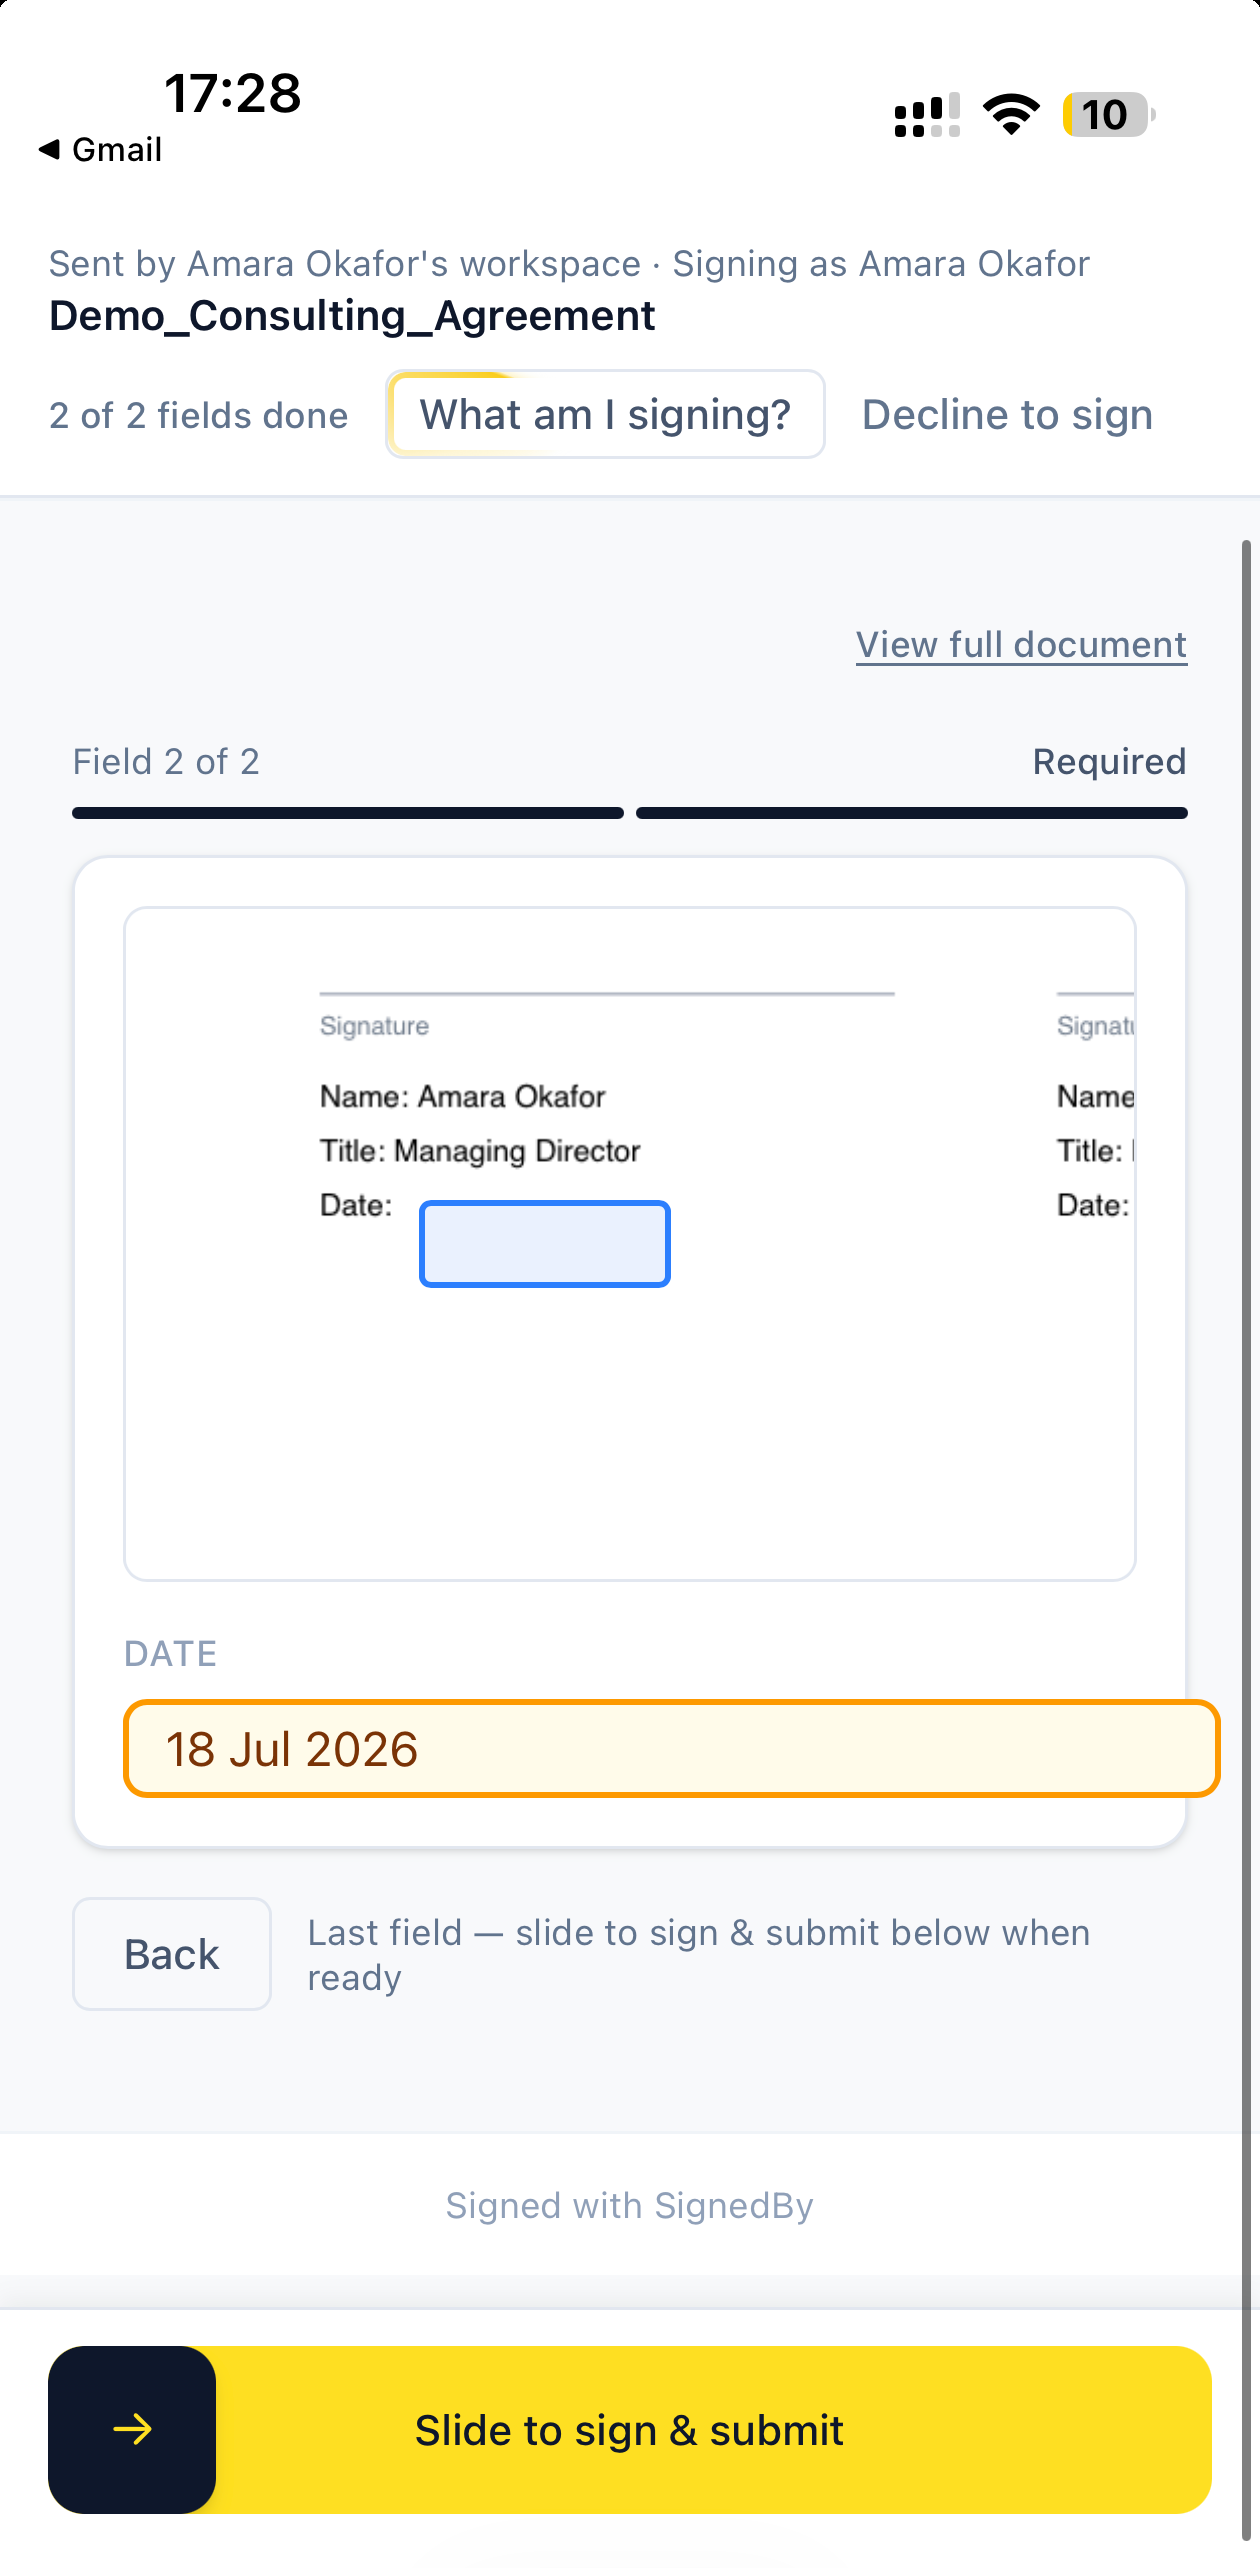
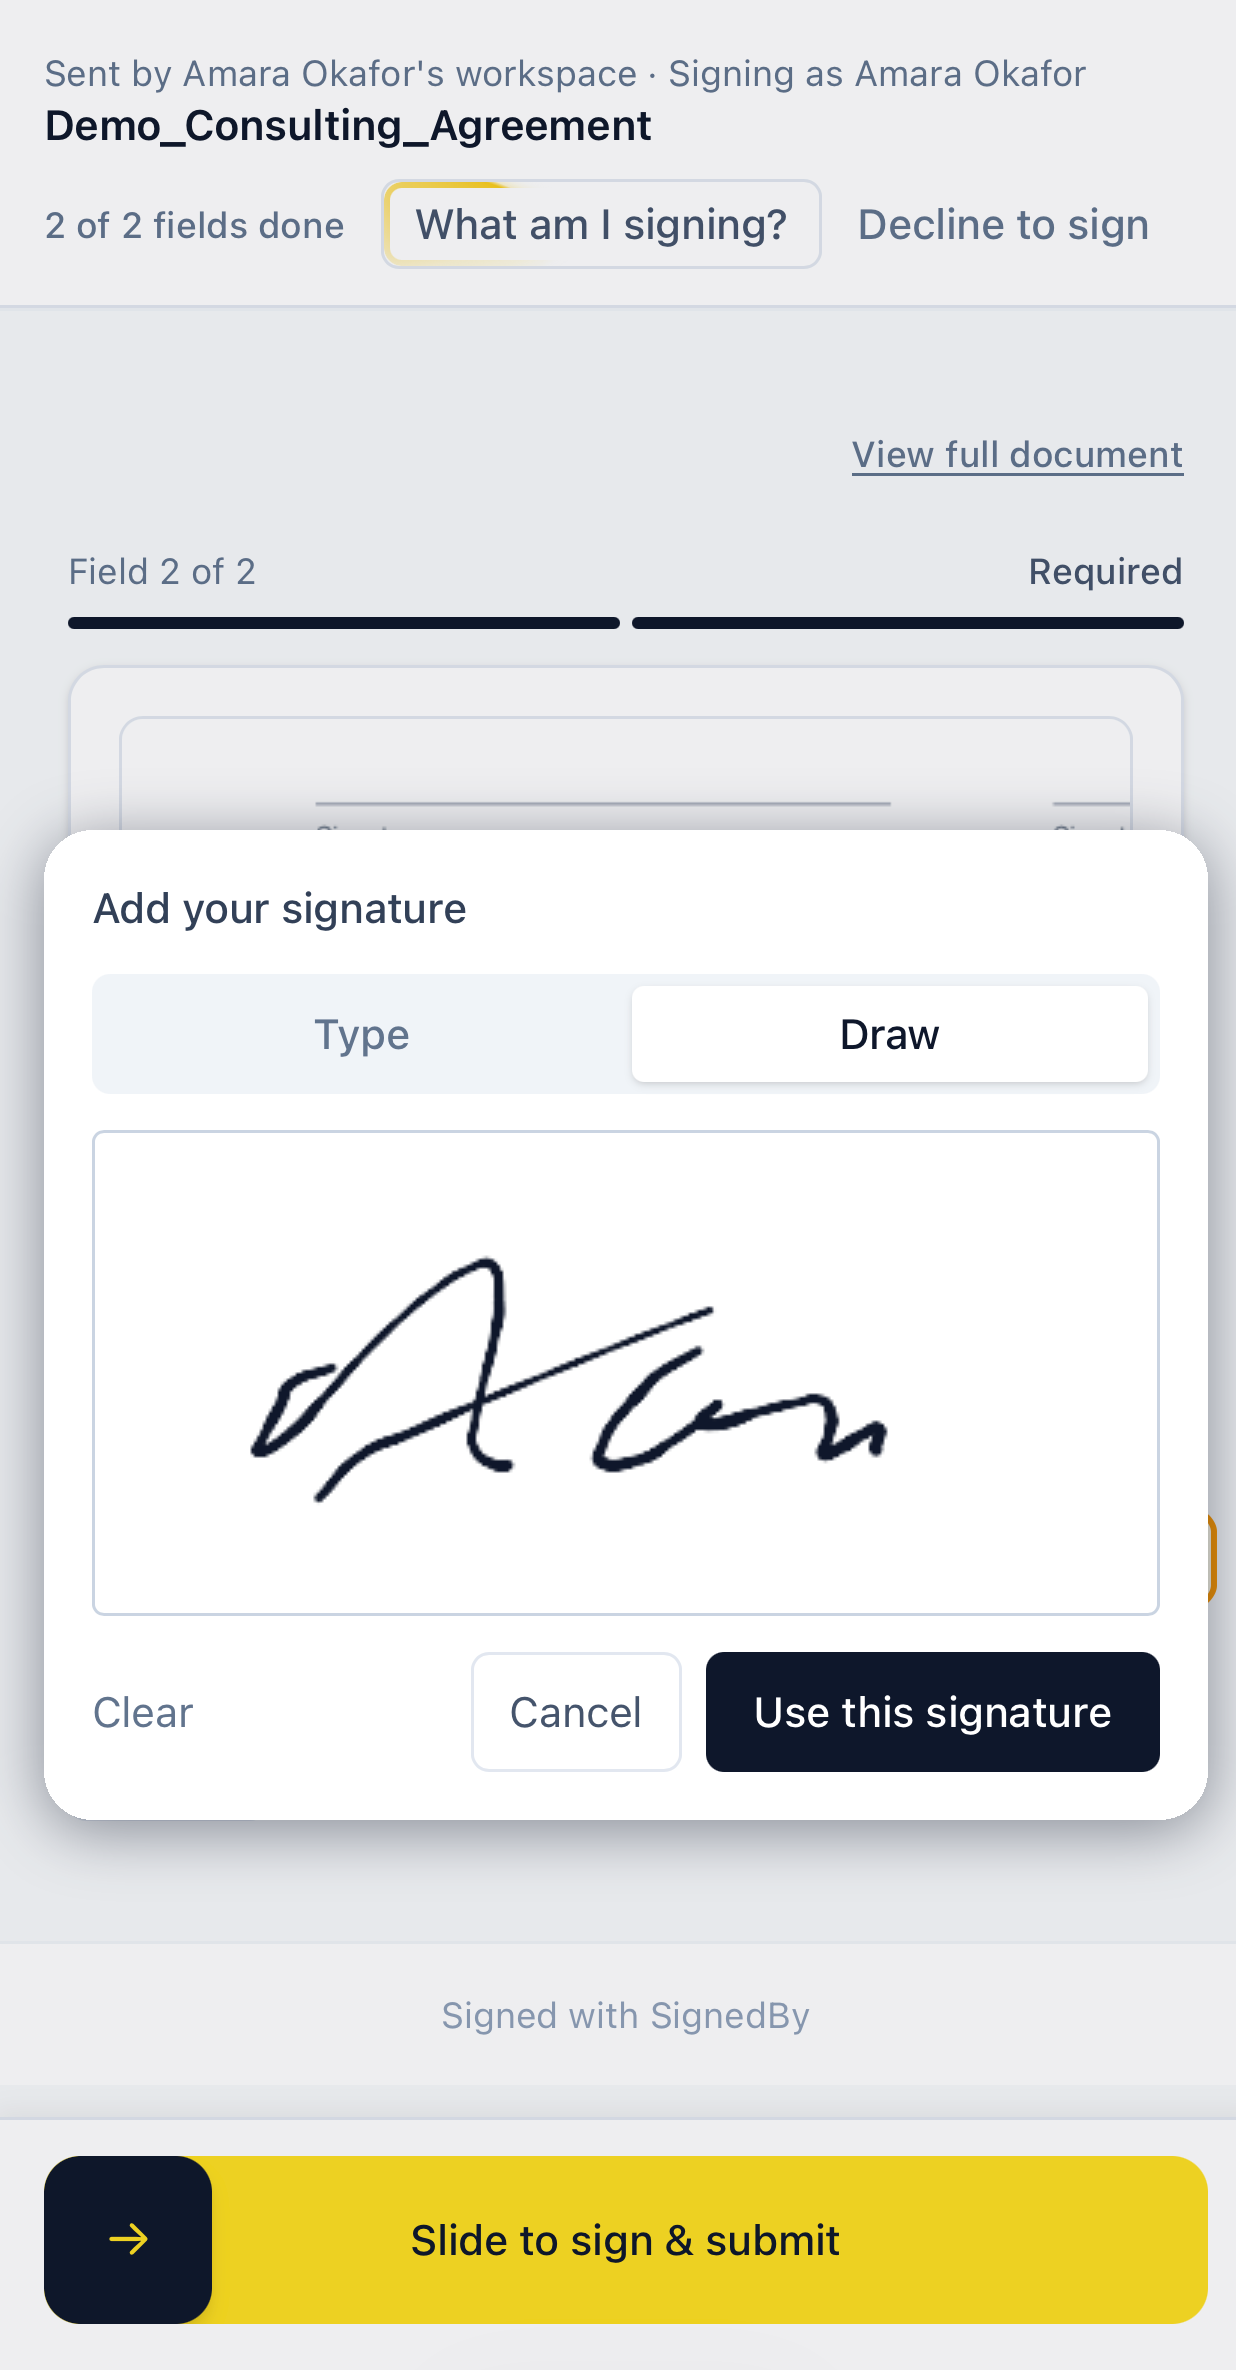
Mobile hero: show the signature pad with a real signature, drop the iOS chrome
The old shot had the yellow slide-to-sign bar but an empty signature line, so
the one thing the image needed to prove -- that signing on a phone is a
handwritten scrawl and a swipe -- was not actually visible.

Composited the 'Add your signature' modal (with the drawn signature) from the
same demo session over the slide-to-sign frame, on a light scrim and drop
shadow so it reads as the real overlay. Both ideas now show in one shot.

Also cropped off the iOS status bar (clock, carrier, battery) and the '< Gmail'
back link, plus the Safari toolbar -- personal device chrome that dated the
screenshot and pulled the eye to the top-left corner instead of the document.

1260x2568 -> 1236x2370; next/image dimensions and alt text updated to match.

diff --git a/src/app/page.tsx b/src/app/page.tsx
@@ -181,9 +181,9 @@ export default async function LandingPage() {
           <div className="absolute -bottom-6 -right-6 hidden w-[24%] overflow-hidden rounded-2xl border border-slate-200 bg-white shadow-xl sm:block lg:-right-10 lg:w-[26%]">
             <Image
               src="/hero-signer-mobile.png"
-              alt="A signer completing the same document on their phone: the date field filled and a yellow slide-to-sign bar ready to submit"
-              width={1260}
-              height={2568}
+              alt="A signer signing the same document on their phone: a handwritten signature drawn in the signature pad, with a yellow slide-to-sign bar ready to submit"
+              width={1236}
+              height={2370}
               sizes="(min-width: 1024px) 12rem, 10rem"
               className="h-auto w-full"
             />
